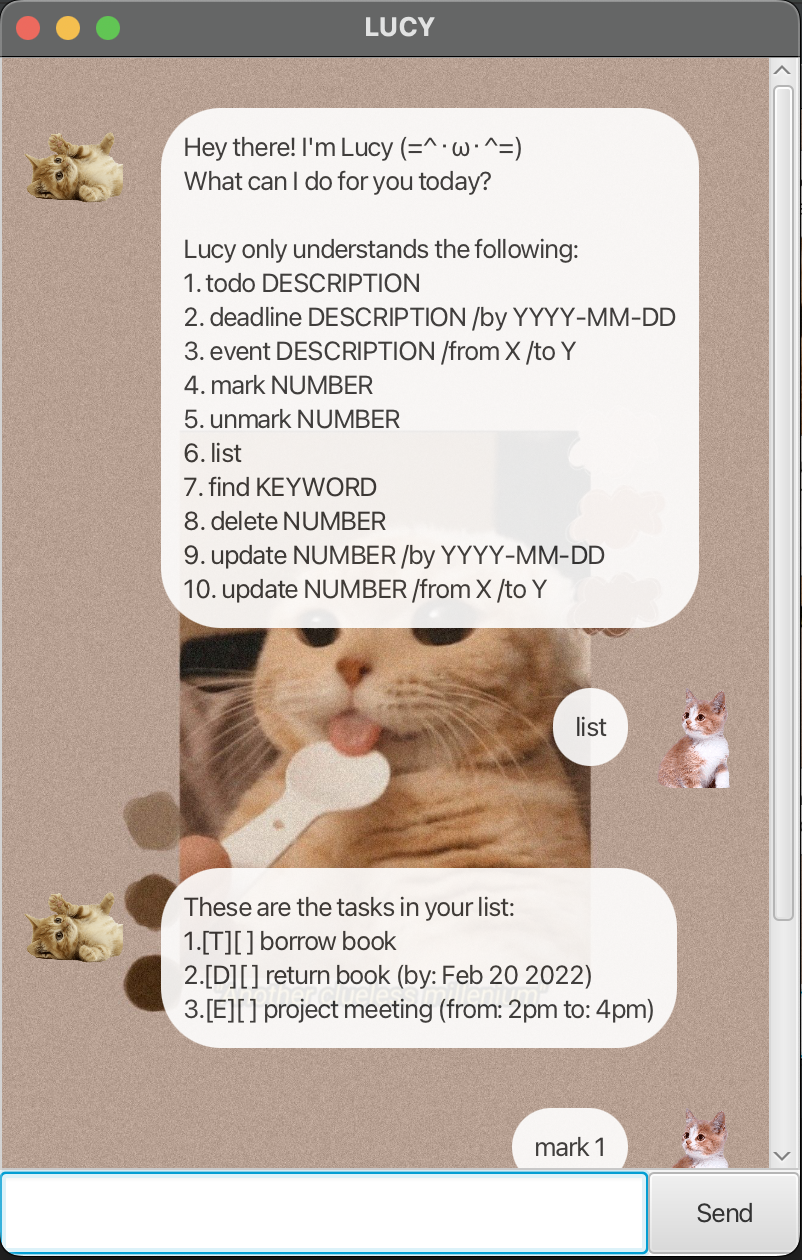
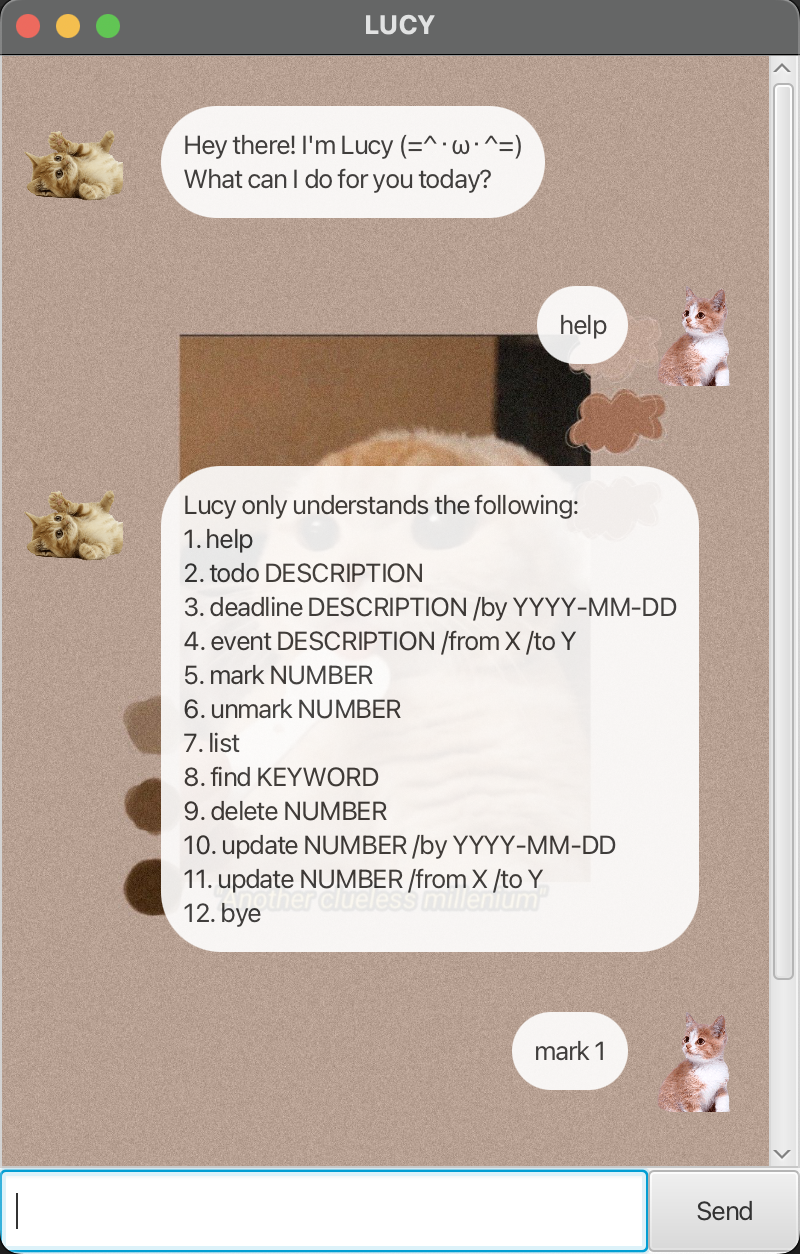
Update user guide and Java coding standards

diff --git a/src/main/java/duke/Ui.java b/src/main/java/duke/Ui.java
@@ -21,7 +21,7 @@ public class Ui {
      */
     public static String dukeGreeting() {
         String greeting = "";
-        greeting = "Hey there! I'm Lucy (=^･ω･^=)\n" + "What can I do for you today?\n" + userGuide();
+        greeting = "Hey there! I'm Lucy (=^･ω･^=)\n" + "What can I do for you today?";
         return greeting;
     }
 
@@ -111,18 +111,20 @@ public class Ui {
      *
      * @return Response to show user the possible commands.
      */
-    public static String userGuide() {
-        return "\nLucy only understands the following:\n"
-                + "1. todo DESCRIPTION\n"
-                + "2. deadline DESCRIPTION /by YYYY-MM-DD\n"
-                + "3. event DESCRIPTION /from X /to Y\n"
-                + "4. mark NUMBER\n"
-                + "5. unmark NUMBER\n"
-                + "6. list\n"
-                + "7. find KEYWORD \n"
-                + "8. delete NUMBER\n"
-                + "9. update NUMBER /by YYYY-MM-DD\n"
-                + "10. update NUMBER /from X /to Y";
+    public String userGuide() {
+        return "Lucy only understands the following:\n"
+                + "1. help\n"
+                + "2. todo DESCRIPTION\n"
+                + "3. deadline DESCRIPTION /by YYYY-MM-DD\n"
+                + "4. event DESCRIPTION /from X /to Y\n"
+                + "5. mark NUMBER\n"
+                + "6. unmark NUMBER\n"
+                + "7. list\n"
+                + "8. find KEYWORD \n"
+                + "9. delete NUMBER\n"
+                + "10. update NUMBER /by YYYY-MM-DD\n"
+                + "11. update NUMBER /from X /to Y\n"
+                + "12. bye";
     }
 
     /**

diff --git a/src/main/java/duke/Parser.java b/src/main/java/duke/Parser.java
@@ -41,6 +41,9 @@ public class Parser {
         case "bye": {
             return ui.exit();
         }
+        case "help": {
+            return ui.userGuide();
+        }
         case "todo": {
             String after = arrNext[1];
             inputTask = newTodo(storage, taskList, after);
@@ -260,7 +263,7 @@ public class Parser {
      */
     public static boolean checkEmptyDescription(String[] checkString) throws EmptyDescription {
         if (checkString.length == 1 && !Objects.equals(checkString[0], "list")
-                && !Objects.equals(checkString[0], "bye")) {
+                && !Objects.equals(checkString[0], "bye") && !Objects.equals(checkString[0], "help")) {
             throw new EmptyDescription(" The description of " + checkString[0] + " cannot be empty.");
         }
         return true;
@@ -288,7 +291,7 @@ public class Parser {
      */
     public static void checkWrongTask(String keyword) throws WrongTask {
         List<String> keywords = Arrays.asList("bye", "todo", "deadline", "event", "mark", "unmark", "list",
-                "delete", "find", "update");
+                "delete", "find", "update", "help");
         boolean isKeyword = keywords.contains(keyword);
         if (!isKeyword) {
             throw new WrongTask(" I'm sorry, but I don't know what that means :-(");

diff --git a/src/main/java/duke/MainWindow.java b/src/main/java/duke/MainWindow.java
@@ -5,7 +5,8 @@ import javafx.scene.control.Button;
 import javafx.scene.control.ScrollPane;
 import javafx.scene.control.TextField;
 import javafx.scene.image.Image;
-import javafx.scene.layout.*;
+import javafx.scene.layout.AnchorPane;
+import javafx.scene.layout.VBox;
 
 /**
  * Controller for MainWindow. Provides the layout for the other controls.

diff --git a/docs/README.md b/docs/README.md
@@ -6,10 +6,38 @@ Notes about the command format:
 
 - Words in `UPPER_CASE` are the parameters to be supplied by the user. e.g. in `todo DESCRIPTION`, `DESCRIPTION` is a
   parameter which can be used as `todo borrow book`
-- Extraneous parameters for commands that do not take in parameters (such as `list` and `bye`) will be ignored. e.g. if
-  the command specifies `list 123`, it will be interpreted as `list`
+- Extraneous parameters for commands that do not take in parameters (such as `list`, `bye` and `help`) will be ignored.
+  e.g. if the command specifies `list 123`, it will be interpreted as `list`
 
 ## Usage
+
+### `help` - Viewing all available commands.
+
+Shows the user all the available commands.
+
+Example of usage:
+
+`help`
+
+Expected outcome:
+
+Shows all the commands that can be used by the user.
+
+```
+Lucy only understands the following:
+1. help
+2. todo DESCRIPTION
+3. deadline DESCRIPTION /by YYYY-MM-DD
+4. event DESCRIPTION /from X /to Y
+5. mark NUMBER
+6. unmark NUMBER
+7. list
+8. find KEYWORD
+9. delete NUMBER
+10. update NUMBER /by YYYY-MM-DD
+11. update NUMBER /from X /to Y
+12. bye
+```
 
 ### `todo` - Creating a new Todo task.
 
